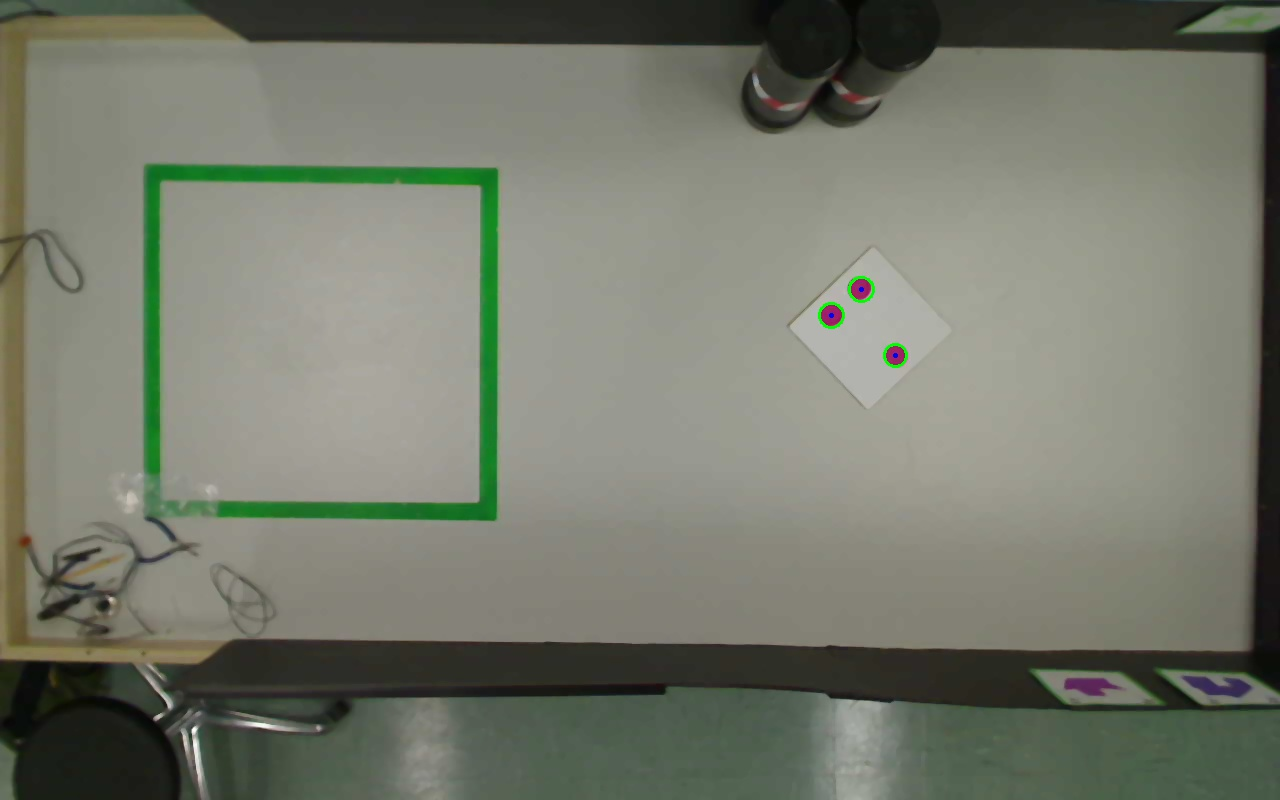
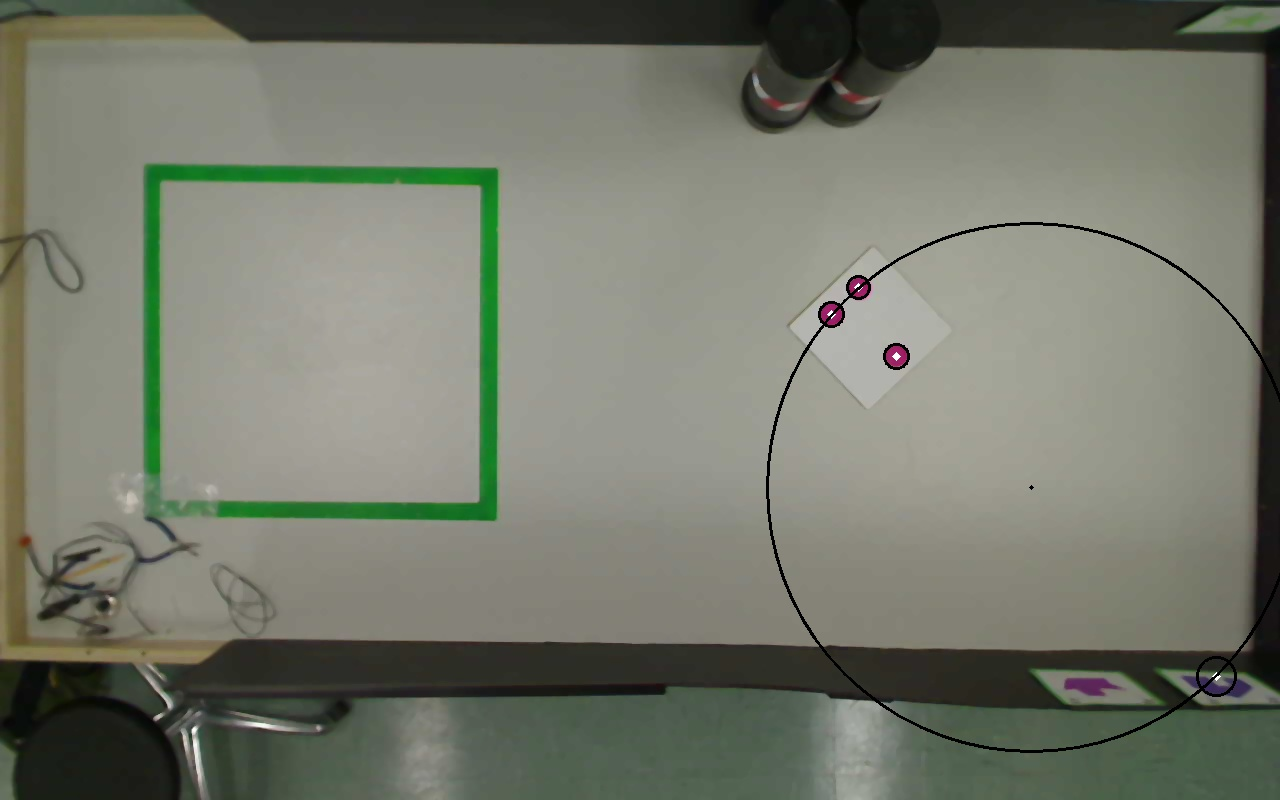
First stable robot position

diff --git a/find_robot_position.py b/find_robot_position.py
@@ -1,38 +1,83 @@
 import cv2
 import glob
 
+import math
+
 import numpy as np
 
+
+class RobotDetector:
+    def detect_robot_position(self, image):
+        image = self._preprocess(image)
+        threshold = self._threshold_robot_makers(image)
+        circles = cv2.HoughCircles(threshold, cv2.HOUGH_GRADIENT, 2.0, 12, param1=50, param2=30, minRadius=5,
+                                   maxRadius=30)
+
+        position = {}
+
+        if circles is not None:
+            circles = np.round(circles[0, :]).astype("int")
+            contours = np.array([x[0:2] for x in circles])
+            (x, y), radius = cv2.minEnclosingCircle(contours)
+
+            center_of_robot = [x, y]
+
+            center = (int(x), int(y))
+            radius = int(radius)
+
+            if len(circles) < 3:
+                center_of_masses = []
+                cnts = cv2.findContours(threshold, cv2.RETR_EXTERNAL, cv2.CHAIN_APPROX_SIMPLE)
+                for contour in cnts[1]:
+                    M = cv2.moments(contour)
+                    try:
+                        cX = int(M["m10"] / M["m00"])
+                        cY = int(M["m01"] / M["m00"])
+                        center = [cX, cY]
+                        center_of_masses.append(center)
+                    except ZeroDivisionError:
+                        continue
+
+                c = closest(center_of_masses, center_of_robot)
+
+                contours = contours.tolist()
+                contours.append(c[0])
+                contours.append(c[1])
+                contours.append(c[2])
+                contours = np.array(contours)
+
+                (r_x, r_y), r_r = cv2.minEnclosingCircle(contours)
+
+                center = (int(r_x), int(r_y))
+                radius = int(r_r)
+
+            position = {"center": center, "radius": radius}
+
+        return position
+
+    def _preprocess(self, image):
+        image = cv2.medianBlur(image, ksize=5)
+        return image
+
+    def _threshold_robot_makers(self, image):
+        image = cv2.cvtColor(image, cv2.COLOR_BGR2HSV)
+        lower_fuchia_hsv = np.array([120, 90, 90])
+        higher_fuchia_hsv = np.array([205, 255, 255])
+        mask = cv2.inRange(image, lower_fuchia_hsv, higher_fuchia_hsv)
+        kernel = cv2.getStructuringElement(cv2.MORPH_ELLIPSE, (7, 7))
+        mask = cv2.morphologyEx(mask, cv2.MORPH_CLOSE, kernel=kernel)
+        return mask
+
+
+def closest(points, point):
+    return sorted(points, key=lambda p: math.sqrt((p[0] - point[0]) ** 2 + (p[1] - point[1]) ** 2))
+
+
 if __name__ == '__main__':
+    robot_detector = RobotDetector()
     images = glob.glob('data/images/robot_targets/*.jpg')
 
     for filename in images:
         image = cv2.imread(filename)
 
-        image = cv2.medianBlur(image, ksize=5)
-        image = cv2.cvtColor(image, cv2.COLOR_BGR2HSV)
-
-        lower_fuchia_hsv = np.array([127, 80, 80])
-        higher_fuchia_hsv = np.array([196, 255, 255])
-
-        mask = cv2.inRange(image, lower_fuchia_hsv, higher_fuchia_hsv)
-
-        kernel = cv2.getStructuringElement(cv2.MORPH_RECT, (9, 9))
-        mask = cv2.morphologyEx(mask, cv2.MORPH_OPEN, kernel=kernel)
-
-        result = cv2.bitwise_and(image.copy(), image, mask=mask)
-
-        result = cv2.cvtColor(result, cv2.COLOR_HSV2BGR)
-        result = cv2.cvtColor(result, cv2.COLOR_BGR2GRAY)
-
-        circles = cv2.HoughCircles(result, cv2.HOUGH_GRADIENT, 2.0, 20, param1=50, param2=30, minRadius=0, maxRadius=0)
-
-        image = cv2.cvtColor(image, cv2.COLOR_HSV2BGR)
-        if circles is not None:
-            circles = np.round(circles[0, :]).astype("int")
-            for (x1, y1, r1) in circles:
-                cv2.circle(image, (x1, y1), r1, (0, 255, 0), 2)
-                cv2.circle(image, (x1, y1), 1, (255, 0, 0), 2)
-
-            print(filename)
-            cv2.imwrite('./data/images/robot_positions/' + filename.split('/')[-1], image)
+        robot_position = robot_detector.detect_robot_position(image)

diff --git a/collect_images.py b/collect_images.py
@@ -1,4 +1,10 @@
 import cv2
+import os
+
+from datetime import datetime
+
+from find_robot_position import RobotDetector
+from src.infrastructure.camera import JSONCameraModelRepository
 
 if __name__ == '__main__':
     cap = cv2.VideoCapture(1)
@@ -11,20 +17,49 @@ if __name__ == '__main__':
     print("HEIGHT: {}".format(cap.get(cv2.CAP_PROP_FRAME_HEIGHT)))
     print("WIDTH: {}".format(cap.get(cv2.CAP_PROP_FRAME_WIDTH)))
 
+    now = datetime.utcnow().isoformat()
+    calibration_session_dir = './data/calibrations/' + now
+
+    # os.mkdir(calibration_session_dir)
+
+    camera_repository = JSONCameraModelRepository('./camera_model.json')
+    camera_model = camera_repository.get_camera_model_by_id(0)
+    origin = camera_model.get_origin()[0]
+
     index = 0
+
+    robot_detector = RobotDetector()
 
     while cap.isOpened():
         ret, frame = cap.read()
 
-        if ret:
+        frame = camera_model.undistort_image(frame)
 
+        position = robot_detector.detect_robot_position(frame)
+
+        try:
+            center = position['center']
+            radius = position['radius']
+
+            world_position = camera_model.compute_image_to_world_coordinates(center[0], center[1], 10)
+
+            print("Robot Position: {0}".format(world_position))
+
+            cv2.circle(frame, center, radius, (0, 255, 0), 2)
+            cv2.circle(frame, center, 2, (0, 0, 0), -1)
+        except KeyError:
+            continue
+
+        cv2.circle(frame, (int(origin[0]), int(origin[1])), 2, (0, 255, 0), 2)
+
+        if ret:
             cv2.imshow('frame', frame)
 
             key = cv2.waitKey(1)
 
             if key == ord('s'):
                 print('Writing image')
-                filename = './data/images/robot_targets/image' + str(index) + '.jpg'
+                filename = "./image" + str(index) + '.jpg'
                 index += 1
                 print(filename)
                 cv2.imwrite(filename, frame)

diff --git a/calibrate.py b/calibrate.py
@@ -1,0 +1,24 @@
+import glob
+import cv2
+import json
+
+from src.camera.camera import CameraFactory
+from src.service.calibrationservice import CalibrationService
+
+if __name__ == '__main__':
+    camera_factory = CameraFactory()
+    calibration_service = CalibrationService(camera_factory)
+
+    calibration_session_dir = "./data/calibrations/2017-02-25T18"
+
+    images_path = glob.glob(calibration_session_dir + '/*.jpg')
+
+    images = [cv2.imread(filename) for filename in images_path]
+
+    camera_model = calibration_service.calibrate_from_images(images)
+    camera_model["id"] = 0
+
+    models = [camera_model]
+
+    with open("./camera_model.json", 'w') as file:
+        json.dump(models, file, indent=4)

diff --git a/src/infrastructure/camera.py b/src/infrastructure/camera.py
@@ -29,7 +29,7 @@ class JSONCameraModelRepository:
                 camera_model_dto['intrinsic_parameters'],
                 camera_model_dto['extrinsic_parameters'],
                 camera_model_dto['camera_matrix'],
-                None,
+                camera_model_dto['distortion_coefficients'],
                 camera_model_dto['rotation_matrix'],
                 camera_model_dto['translation_vector'],
                 camera_model_dto['origin_image_coordinates']

diff --git a/src/camera/camera.py b/src/camera/camera.py
@@ -128,6 +128,9 @@ class CameraModel:
 
         return np.array(P, dtype=float).tolist()
 
+    def get_origin(self):
+        return self._origin
+
     def undistort_image(self, image):
         return cv2.undistort(image, self._intrinsic_parameters, self._distortion_coefficients, None, None)
 

diff --git a/detect_green_square.py b/detect_green_square.py
@@ -5,7 +5,7 @@ from multiprocessing.dummy import Pool as ThreadPool
 import cv2
 import numpy as np
 
-from src.camera.camera import Image
+from src.camera.image import Image
 
 times = []
 
